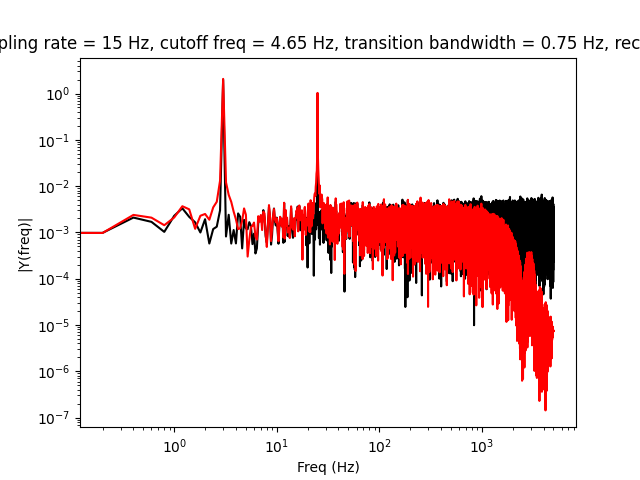
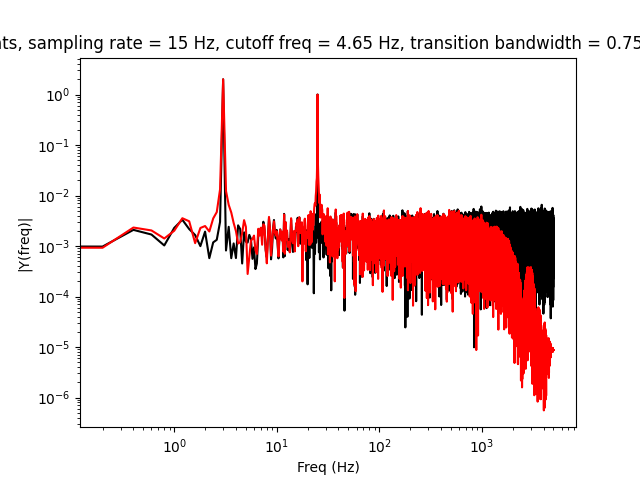
updated title for hw14 part 4

diff --git a/hw14/hw14.py b/hw14/hw14.py
@@ -8,7 +8,7 @@ t = [] # column 0
 data1 = [] # column 1
 data2 = [] # column 2
 
-with open('sigD.csv') as f:
+with open('sigA.csv') as f:
     # open the csv file
     reader = csv.reader(f)
     for row in reader:
@@ -190,13 +190,13 @@ Y_new = Y_new[range(int(n/2))]
 ax1.loglog(frq,abs(Y),'k') # plotting the fft
 ax1.set_xlabel('Freq (Hz)')
 ax1.set_ylabel('|Y(freq)|')
-ax1.set_title(f"low pass filter, sampling rate = 15 Hz, cutoff freq = 4.65 Hz, transition bandwidth = 0.75 Hz, rectangular window type")
+ax1.set_title(f"low pass filter, 19 coefficients, sampling rate = 15 Hz, cutoff freq = 4.65 Hz, transition bandwidth = 0.75 Hz, rectangular window type")
 
 # modified FFT
 ax1.loglog(frq_4,abs(Y_new),'r') # plotting the fft
 ax1.set_xlabel('Freq (Hz)')
 ax1.set_ylabel('|Y(freq)|')
 
-fig4.savefig("hw14_sigD_graph4")
+fig4.savefig("hw14_sigA_graph4")
 
-plt.show()
+# plt.show()
